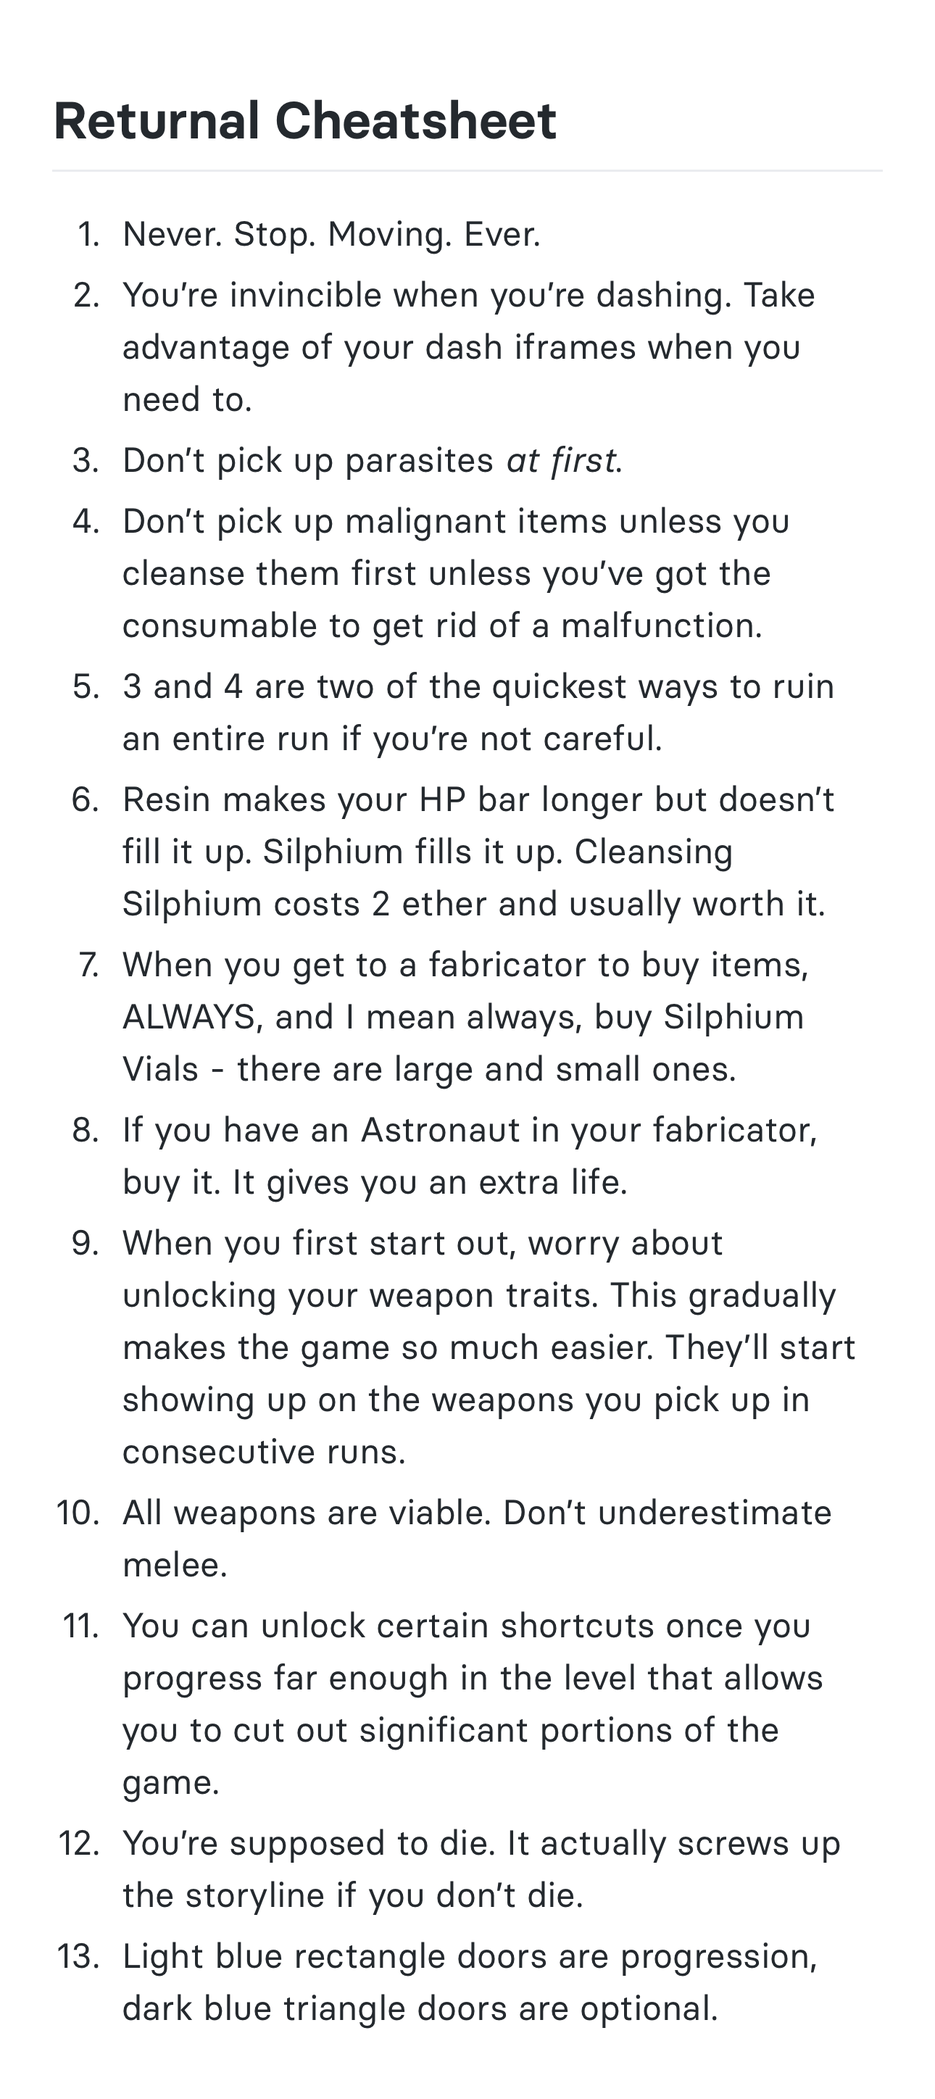
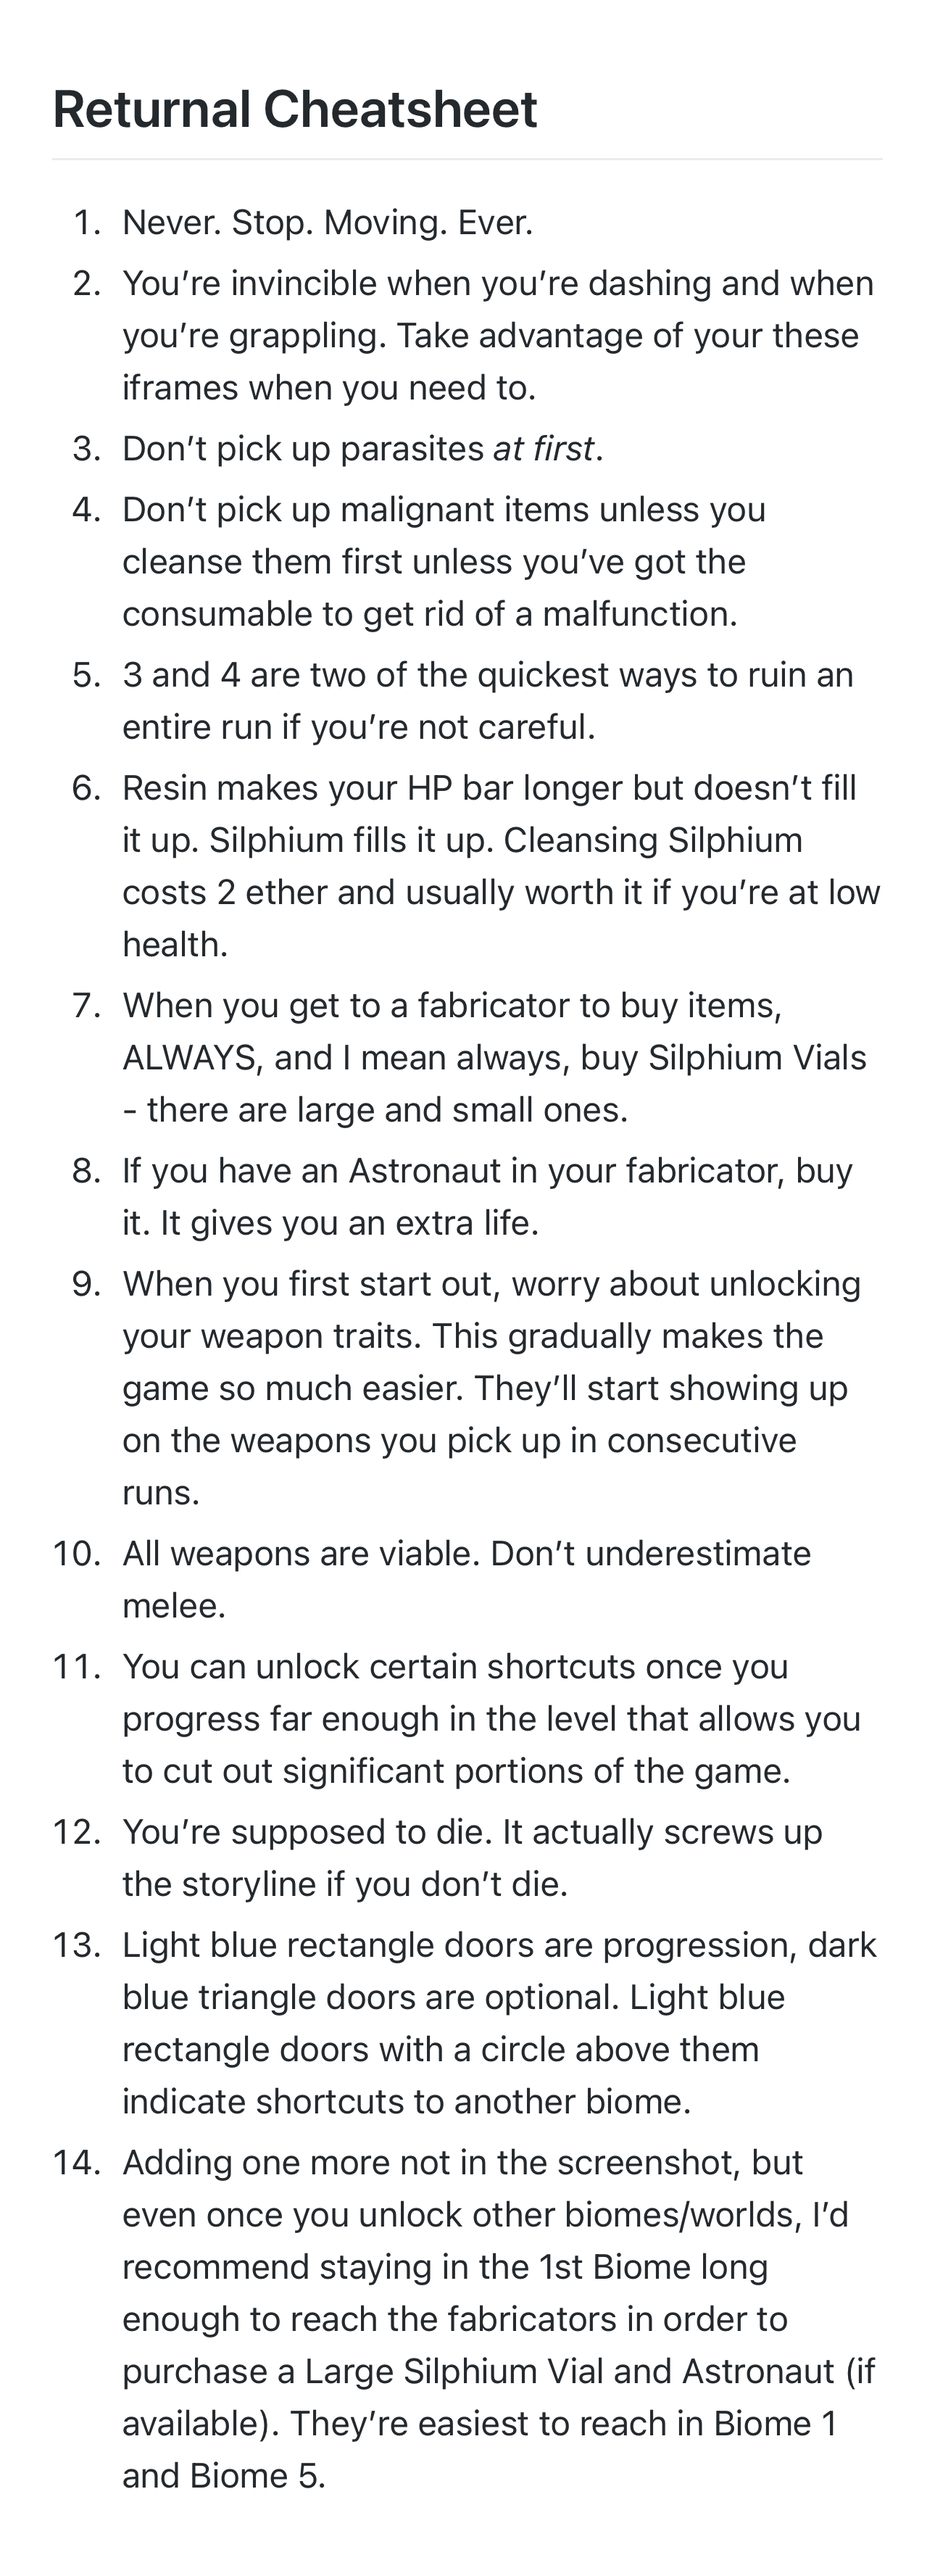
Added updated screenshot to coincide with the recent edits

diff --git a/gaming/returnal/returnal-cheatsheet.md b/gaming/returnal/returnal-cheatsheet.md
@@ -13,7 +13,4 @@
 11. You can unlock certain shortcuts once you progress far enough in the level that allows you to cut out significant portions of the game.
 12. You're supposed to die. It actually screws up the storyline if you don't die.
 13. Light blue rectangle doors are progression, dark blue triangle doors are optional. Light blue rectangle doors with a circle above them indicate shortcuts to another biome.
-
-**EDIT**
-
 14. Adding one more not in the screenshot, but even once you unlock other biomes/worlds, I'd recommend staying in the 1st Biome long enough to reach the fabricators in order to purchase a Large Silphium Vial and Astronaut (if available). They're easiest to reach in Biome 1 and Biome 5.
